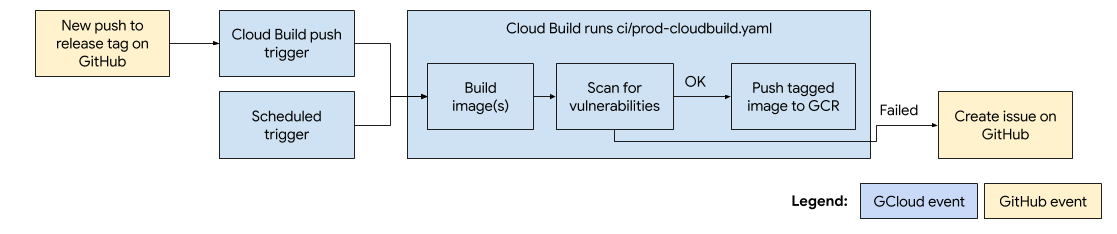
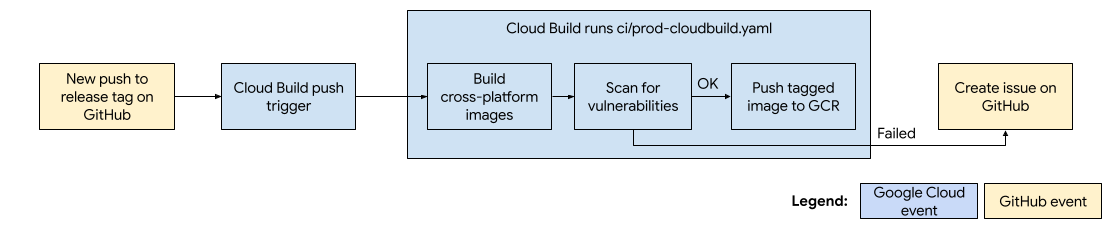
remove scheduled builds from readme (#108)

diff --git a/ci/README.md b/ci/README.md
@@ -18,14 +18,8 @@ The complete flowchart for CI is shown below:
 
 ### Triggers
 Cloud Build triggers are configured purely on Google Cloud Platform (GCP, not on
-GitHub), which this repo is connected to. The CloudBuild trigger events which will be used for this project are as follows:
-
-* A trigger on every push to a released tag
-* (WIP) A scheduled trigger to run every period
-
-<!-- TODO: remove the line below when GCP is made public. -->
-Please note that currently Cloud Build triggers can only be accessed and modified by
-maintainers from Google.
+GitHub), which this repo is connected to. The CloudBuild trigger will occur on
+every push to a released tag.
 
 ### cloudbuild.yaml
 When a trigger event occurs, the
